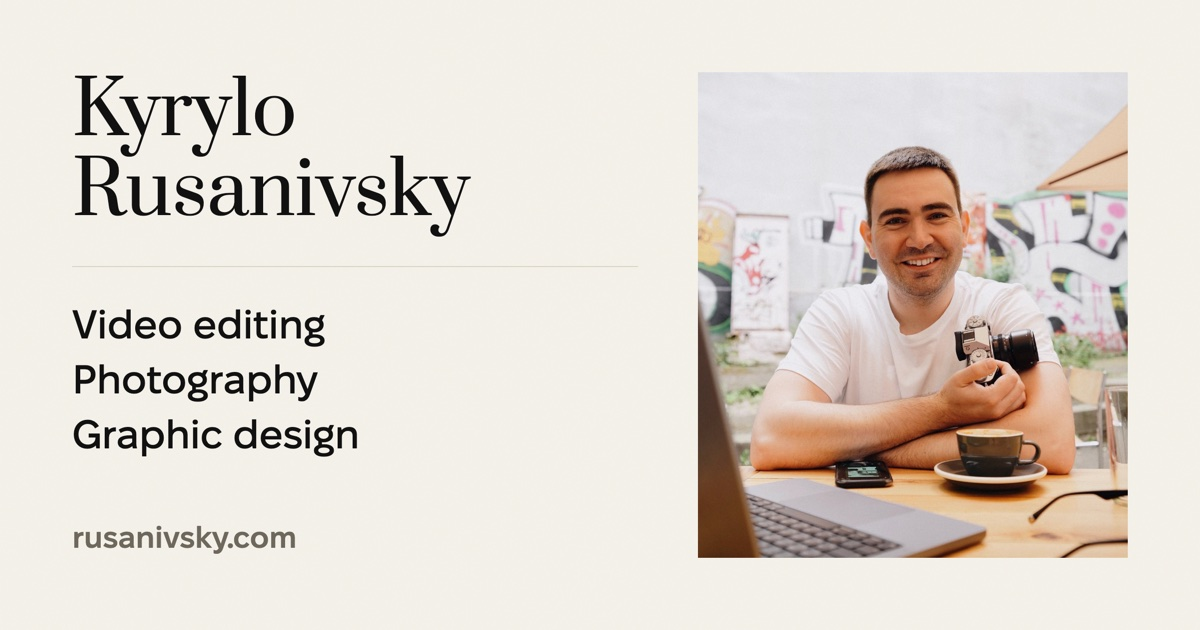
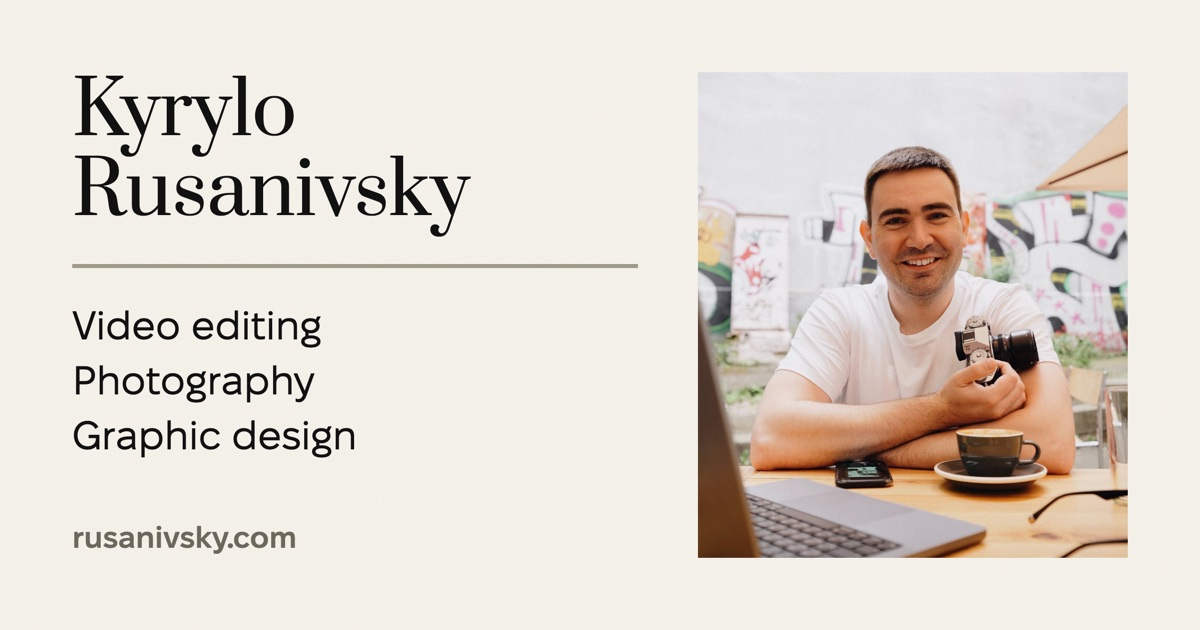
Головна зветься іменем і фахом, лінійка на картці видима
Заголовок головної починався з переліку ремесел. Тепер починається
з самоопису, а ремесла лишаються за рискою — Google тримає цей рядок
роками, і втрачати збіг за «video editor kyiv» через точніше слово
не варто. Описи сторінок не чіпані: ключові слова живуть там.

На картці лінійка була волосиною — у стрічці, де її бачать учетверо
меншою, від неї не лишалось нічого. Чотири пікселі --faint переживають
зменшення. Напрямки стоять звичайною вагою, як той самий перелік
у мобільній шторці: на 40 px зайва вага тільки товстила рядок.

Changed region(s): [[0.0617, 0.3921, 0.5242, 0.4524], [0.0617, 0.4825, 0.2775, 0.6333], [0.0617, 0.6635, 0.3083, 0.7238]]

diff --git a/ua/index.html b/ua/index.html
@@ -3,7 +3,7 @@
 <head>
 <meta charset="utf-8">
 <meta name="viewport" content="width=device-width, initial-scale=1, viewport-fit=cover">
-<title>Кирило Русанівський — відеомонтажер, фотограф і графічний дизайнер</title>
+<title>Кирило Русанівський — митець | Відео, фотографія, дизайн</title>
 <meta name="description" content="Кирило Русанівський — відеомонтажер, фотограф і графічний дизайнер із Києва. Монтаж відео, репортажна фотографія, дизайн книжок і обкладинок, верстка.">
 <meta name="author" content="Kyrylo Rusanivsky">
 <link rel="canonical" href="https://rusanivsky.com/ua/">
@@ -15,17 +15,17 @@
 <meta property="og:locale" content="uk_UA">
 <meta property="og:locale:alternate" content="en_US">
 <meta property="og:url" content="https://rusanivsky.com/ua/">
-<meta property="og:title" content="Кирило Русанівський — відеомонтажер, фотограф і графічний дизайнер">
+<meta property="og:title" content="Кирило Русанівський — митець | Відео, фотографія, дизайн">
 <meta property="og:description" content="Кирило Русанівський — відеомонтажер, фотограф і графічний дизайнер із Києва. Монтаж відео, репортажна фотографія, дизайн книжок і обкладинок, верстка.">
-<meta property="og:image" content="https://rusanivsky.com/og-image.jpg?v=aedbeb45">
+<meta property="og:image" content="https://rusanivsky.com/og-image.jpg?v=6ef668c4">
 <meta property="og:image:type" content="image/jpeg">
 <meta property="og:image:width" content="1200">
 <meta property="og:image:height" content="630">
 <meta property="og:image:alt" content="Кирило Русанівський — відеомонтажер, фотограф і графічний дизайнер, Київ">
 <meta name="twitter:card" content="summary_large_image">
-<meta name="twitter:title" content="Кирило Русанівський — відеомонтажер, фотограф і графічний дизайнер">
+<meta name="twitter:title" content="Кирило Русанівський — митець | Відео, фотографія, дизайн">
 <meta name="twitter:description" content="Кирило Русанівський — відеомонтажер, фотограф і графічний дизайнер із Києва. Монтаж відео, репортажна фотографія, дизайн книжок і обкладинок, верстка.">
-<meta name="twitter:image" content="https://rusanivsky.com/og-image.jpg?v=aedbeb45">
+<meta name="twitter:image" content="https://rusanivsky.com/og-image.jpg?v=6ef668c4">
 <meta name="theme-color" content="#f4f1e9">
 <link rel="icon" href="/favicon.ico?v=ccd57da2" sizes="32x32">
 <link rel="icon" href="/favicon.svg?v=ccd57da2" type="image/svg+xml">

diff --git a/index.html b/index.html
@@ -3,7 +3,7 @@
 <head>
 <meta charset="utf-8">
 <meta name="viewport" content="width=device-width, initial-scale=1, viewport-fit=cover">
-<title>Kyrylo Rusanivsky — Video Editor / Photographer / Graphic Designer</title>
+<title>Kyrylo Rusanivsky — Visual Artist | Video, Photography, Design</title>
 <meta name="description" content="Kyrylo Rusanivsky is a Kyiv-based video editor, photographer and graphic designer. Video editing, event photography, book and cover design, editorial layout.">
 <meta name="author" content="Kyrylo Rusanivsky">
 <link rel="canonical" href="https://rusanivsky.com/">
@@ -15,17 +15,17 @@
 <meta property="og:locale" content="en_US">
 <meta property="og:locale:alternate" content="uk_UA">
 <meta property="og:url" content="https://rusanivsky.com/">
-<meta property="og:title" content="Kyrylo Rusanivsky — Video Editor / Photographer / Graphic Designer">
+<meta property="og:title" content="Kyrylo Rusanivsky — Visual Artist | Video, Photography, Design">
 <meta property="og:description" content="Kyrylo Rusanivsky is a Kyiv-based video editor, photographer and graphic designer. Video editing, event photography, book and cover design, editorial layout.">
-<meta property="og:image" content="https://rusanivsky.com/og-image.jpg?v=aedbeb45">
+<meta property="og:image" content="https://rusanivsky.com/og-image.jpg?v=6ef668c4">
 <meta property="og:image:type" content="image/jpeg">
 <meta property="og:image:width" content="1200">
 <meta property="og:image:height" content="630">
 <meta property="og:image:alt" content="Kyrylo Rusanivsky — video editor, photographer and graphic designer, Kyiv">
 <meta name="twitter:card" content="summary_large_image">
-<meta name="twitter:title" content="Kyrylo Rusanivsky — Video Editor / Photographer / Graphic Designer">
+<meta name="twitter:title" content="Kyrylo Rusanivsky — Visual Artist | Video, Photography, Design">
 <meta name="twitter:description" content="Kyrylo Rusanivsky is a Kyiv-based video editor, photographer and graphic designer. Video editing, event photography, book and cover design, editorial layout.">
-<meta name="twitter:image" content="https://rusanivsky.com/og-image.jpg?v=aedbeb45">
+<meta name="twitter:image" content="https://rusanivsky.com/og-image.jpg?v=6ef668c4">
 <meta name="theme-color" content="#f4f1e9">
 <link rel="icon" href="/favicon.ico?v=ccd57da2" sizes="32x32">
 <link rel="icon" href="/favicon.svg?v=ccd57da2" type="image/svg+xml">

diff --git a/ua/info/index.html b/ua/info/index.html
@@ -17,7 +17,7 @@
 <meta property="og:url" content="https://rusanivsky.com/ua/info/">
 <meta property="og:title" content="Про мене — Кирило Русанівський">
 <meta property="og:description" content="Монтую відео. Проєктую й верстаю книжки. Знімаю людей і події. Працюю з інтерв’ю, YouTube-серіями й роликами для соцмереж; створюю видання та поліграфічну продукцію. Також веду серію вуличних світлин — про місто, випадкові сцени і краєвиди. Працюю дистанційно.">
-<meta property="og:image" content="https://rusanivsky.com/og-image.jpg?v=aedbeb45">
+<meta property="og:image" content="https://rusanivsky.com/og-image.jpg?v=6ef668c4">
 <meta property="og:image:type" content="image/jpeg">
 <meta property="og:image:width" content="1200">
 <meta property="og:image:height" content="630">
@@ -25,7 +25,7 @@
 <meta name="twitter:card" content="summary_large_image">
 <meta name="twitter:title" content="Про мене — Кирило Русанівський">
 <meta name="twitter:description" content="Монтую відео. Проєктую й верстаю книжки. Знімаю людей і події. Працюю з інтерв’ю, YouTube-серіями й роликами для соцмереж; створюю видання та поліграфічну продукцію. Також веду серію вуличних світлин — про місто, випадкові сцени і краєвиди. Працюю дистанційно.">
-<meta name="twitter:image" content="https://rusanivsky.com/og-image.jpg?v=aedbeb45">
+<meta name="twitter:image" content="https://rusanivsky.com/og-image.jpg?v=6ef668c4">
 <meta name="theme-color" content="#f4f1e9">
 <link rel="icon" href="/favicon.ico?v=ccd57da2" sizes="32x32">
 <link rel="icon" href="/favicon.svg?v=ccd57da2" type="image/svg+xml">

diff --git a/ua/street/index.html b/ua/street/index.html
@@ -17,7 +17,7 @@
 <meta property="og:url" content="https://rusanivsky.com/ua/street/">
 <meta property="og:title" content="Вулична фотографія — Кирило Русанівський">
 <meta property="og:description" content="Серія вуличних світлин — про місто, випадкові сцени і краєвиди. Це не замовна робота і вона ніколи не завершена: вона триває поряд з усім іншим.">
-<meta property="og:image" content="https://rusanivsky.com/og-image.jpg?v=aedbeb45">
+<meta property="og:image" content="https://rusanivsky.com/og-image.jpg?v=6ef668c4">
 <meta property="og:image:type" content="image/jpeg">
 <meta property="og:image:width" content="1200">
 <meta property="og:image:height" content="630">
@@ -25,7 +25,7 @@
 <meta name="twitter:card" content="summary_large_image">
 <meta name="twitter:title" content="Вулична фотографія — Кирило Русанівський">
 <meta name="twitter:description" content="Серія вуличних світлин — про місто, випадкові сцени і краєвиди. Це не замовна робота і вона ніколи не завершена: вона триває поряд з усім іншим.">
-<meta name="twitter:image" content="https://rusanivsky.com/og-image.jpg?v=aedbeb45">
+<meta name="twitter:image" content="https://rusanivsky.com/og-image.jpg?v=6ef668c4">
 <meta name="theme-color" content="#f4f1e9">
 <link rel="icon" href="/favicon.ico?v=ccd57da2" sizes="32x32">
 <link rel="icon" href="/favicon.svg?v=ccd57da2" type="image/svg+xml">

diff --git a/ua/design/index.html b/ua/design/index.html
@@ -17,7 +17,7 @@
 <meta property="og:url" content="https://rusanivsky.com/ua/design/">
 <meta property="og:title" content="Дизайн — Кирило Русанівський">
 <meta property="og:description" content="Дизайнер книжкових обкладинок у Києві. Обкладинки, редакційна типографіка, верстка книжок і поліграфія для видавців, авторів і культурних проєктів.">
-<meta property="og:image" content="https://rusanivsky.com/og-image.jpg?v=aedbeb45">
+<meta property="og:image" content="https://rusanivsky.com/og-image.jpg?v=6ef668c4">
 <meta property="og:image:type" content="image/jpeg">
 <meta property="og:image:width" content="1200">
 <meta property="og:image:height" content="630">
@@ -25,7 +25,7 @@
 <meta name="twitter:card" content="summary_large_image">
 <meta name="twitter:title" content="Дизайн — Кирило Русанівський">
 <meta name="twitter:description" content="Дизайнер книжкових обкладинок у Києві. Обкладинки, редакційна типографіка, верстка книжок і поліграфія для видавців, авторів і культурних проєктів.">
-<meta name="twitter:image" content="https://rusanivsky.com/og-image.jpg?v=aedbeb45">
+<meta name="twitter:image" content="https://rusanivsky.com/og-image.jpg?v=6ef668c4">
 <meta name="theme-color" content="#f4f1e9">
 <link rel="icon" href="/favicon.ico?v=ccd57da2" sizes="32x32">
 <link rel="icon" href="/favicon.svg?v=ccd57da2" type="image/svg+xml">

diff --git a/info/index.html b/info/index.html
@@ -17,7 +17,7 @@
 <meta property="og:url" content="https://rusanivsky.com/info/">
 <meta property="og:title" content="About me — Kyrylo Rusanivsky">
 <meta property="og:description" content="I edit videos. I design and typeset books. I photograph people and events. I work on interviews, YouTube series and social-media videos; I create publications and printed materials. I also keep a street-photography series about the city, spontaneous scenes and landscapes. I work remotely.">
-<meta property="og:image" content="https://rusanivsky.com/og-image.jpg?v=aedbeb45">
+<meta property="og:image" content="https://rusanivsky.com/og-image.jpg?v=6ef668c4">
 <meta property="og:image:type" content="image/jpeg">
 <meta property="og:image:width" content="1200">
 <meta property="og:image:height" content="630">
@@ -25,7 +25,7 @@
 <meta name="twitter:card" content="summary_large_image">
 <meta name="twitter:title" content="About me — Kyrylo Rusanivsky">
 <meta name="twitter:description" content="I edit videos. I design and typeset books. I photograph people and events. I work on interviews, YouTube series and social-media videos; I create publications and printed materials. I also keep a street-photography series about the city, spontaneous scenes and landscapes. I work remotely.">
-<meta name="twitter:image" content="https://rusanivsky.com/og-image.jpg?v=aedbeb45">
+<meta name="twitter:image" content="https://rusanivsky.com/og-image.jpg?v=6ef668c4">
 <meta name="theme-color" content="#f4f1e9">
 <link rel="icon" href="/favicon.ico?v=ccd57da2" sizes="32x32">
 <link rel="icon" href="/favicon.svg?v=ccd57da2" type="image/svg+xml">

diff --git a/ua/photo/index.html b/ua/photo/index.html
@@ -17,7 +17,7 @@
 <meta property="og:url" content="https://rusanivsky.com/ua/photo/">
 <meta property="og:title" content="Фотографія — Кирило Русанівський">
 <meta property="og:description" content="Репортаж, культура й мистецтво, бекстейдж і портрети — замовна робота, зібрана в серії, а не викладена всіма кадрами поспіль.">
-<meta property="og:image" content="https://rusanivsky.com/og-image.jpg?v=aedbeb45">
+<meta property="og:image" content="https://rusanivsky.com/og-image.jpg?v=6ef668c4">
 <meta property="og:image:type" content="image/jpeg">
 <meta property="og:image:width" content="1200">
 <meta property="og:image:height" content="630">
@@ -25,7 +25,7 @@
 <meta name="twitter:card" content="summary_large_image">
 <meta name="twitter:title" content="Фотографія — Кирило Русанівський">
 <meta name="twitter:description" content="Репортаж, культура й мистецтво, бекстейдж і портрети — замовна робота, зібрана в серії, а не викладена всіма кадрами поспіль.">
-<meta name="twitter:image" content="https://rusanivsky.com/og-image.jpg?v=aedbeb45">
+<meta name="twitter:image" content="https://rusanivsky.com/og-image.jpg?v=6ef668c4">
 <meta name="theme-color" content="#f4f1e9">
 <link rel="icon" href="/favicon.ico?v=ccd57da2" sizes="32x32">
 <link rel="icon" href="/favicon.svg?v=ccd57da2" type="image/svg+xml">

diff --git a/ua/rates/index.html b/ua/rates/index.html
@@ -17,7 +17,7 @@
 <meta property="og:url" content="https://rusanivsky.com/ua/rates/">
 <meta property="og:title" content="Умови співпраці — Кирило Русанівський">
 <meta property="og:description" content="Умови роботи та контакти Кирила Русанівського — відеомонтажера, фотографа і графічного дизайнера з Києва.">
-<meta property="og:image" content="https://rusanivsky.com/og-image.jpg?v=aedbeb45">
+<meta property="og:image" content="https://rusanivsky.com/og-image.jpg?v=6ef668c4">
 <meta property="og:image:type" content="image/jpeg">
 <meta property="og:image:width" content="1200">
 <meta property="og:image:height" content="630">
@@ -25,7 +25,7 @@
 <meta name="twitter:card" content="summary_large_image">
 <meta name="twitter:title" content="Умови співпраці — Кирило Русанівський">
 <meta name="twitter:description" content="Умови роботи та контакти Кирила Русанівського — відеомонтажера, фотографа і графічного дизайнера з Києва.">
-<meta name="twitter:image" content="https://rusanivsky.com/og-image.jpg?v=aedbeb45">
+<meta name="twitter:image" content="https://rusanivsky.com/og-image.jpg?v=6ef668c4">
 <meta name="theme-color" content="#f4f1e9">
 <link rel="icon" href="/favicon.ico?v=ccd57da2" sizes="32x32">
 <link rel="icon" href="/favicon.svg?v=ccd57da2" type="image/svg+xml">

diff --git a/ua/privacy/index.html b/ua/privacy/index.html
@@ -17,7 +17,7 @@
 <meta property="og:url" content="https://rusanivsky.com/ua/privacy/">
 <meta property="og:title" content="Приватність — Кирило Русанівський">
 <meta property="og:description" content="Коротка інформація про приватність і використання Google Analytics на сайті Кирила Русанівського.">
-<meta property="og:image" content="https://rusanivsky.com/og-image.jpg?v=aedbeb45">
+<meta property="og:image" content="https://rusanivsky.com/og-image.jpg?v=6ef668c4">
 <meta property="og:image:type" content="image/jpeg">
 <meta property="og:image:width" content="1200">
 <meta property="og:image:height" content="630">
@@ -25,7 +25,7 @@
 <meta name="twitter:card" content="summary_large_image">
 <meta name="twitter:title" content="Приватність — Кирило Русанівський">
 <meta name="twitter:description" content="Коротка інформація про приватність і використання Google Analytics на сайті Кирила Русанівського.">
-<meta name="twitter:image" content="https://rusanivsky.com/og-image.jpg?v=aedbeb45">
+<meta name="twitter:image" content="https://rusanivsky.com/og-image.jpg?v=6ef668c4">
 <meta name="theme-color" content="#f4f1e9">
 <link rel="icon" href="/favicon.ico?v=ccd57da2" sizes="32x32">
 <link rel="icon" href="/favicon.svg?v=ccd57da2" type="image/svg+xml">

diff --git a/ua/video/index.html b/ua/video/index.html
@@ -17,7 +17,7 @@
 <meta property="og:url" content="https://rusanivsky.com/ua/video/">
 <meta property="og:title" content="Відео — Кирило Русанівський">
 <meta property="og:description" content="Камера, монтаж і колір: документалістика, інтерв’ю та YouTube-серії, брендові фільми й короткий метр.">
-<meta property="og:image" content="https://rusanivsky.com/og-image.jpg?v=aedbeb45">
+<meta property="og:image" content="https://rusanivsky.com/og-image.jpg?v=6ef668c4">
 <meta property="og:image:type" content="image/jpeg">
 <meta property="og:image:width" content="1200">
 <meta property="og:image:height" content="630">
@@ -25,7 +25,7 @@
 <meta name="twitter:card" content="summary_large_image">
 <meta name="twitter:title" content="Відео — Кирило Русанівський">
 <meta name="twitter:description" content="Камера, монтаж і колір: документалістика, інтерв’ю та YouTube-серії, брендові фільми й короткий метр.">
-<meta name="twitter:image" content="https://rusanivsky.com/og-image.jpg?v=aedbeb45">
+<meta name="twitter:image" content="https://rusanivsky.com/og-image.jpg?v=6ef668c4">
 <meta name="theme-color" content="#f4f1e9">
 <link rel="icon" href="/favicon.ico?v=ccd57da2" sizes="32x32">
 <link rel="icon" href="/favicon.svg?v=ccd57da2" type="image/svg+xml">

diff --git a/street/index.html b/street/index.html
@@ -17,7 +17,7 @@
 <meta property="og:url" content="https://rusanivsky.com/street/">
 <meta property="og:title" content="Street photography — Kyrylo Rusanivsky">
 <meta property="og:description" content="A street-photography series about the city, spontaneous scenes and landscapes. It is not commissioned work and it is never finished — it runs alongside everything else.">
-<meta property="og:image" content="https://rusanivsky.com/og-image.jpg?v=aedbeb45">
+<meta property="og:image" content="https://rusanivsky.com/og-image.jpg?v=6ef668c4">
 <meta property="og:image:type" content="image/jpeg">
 <meta property="og:image:width" content="1200">
 <meta property="og:image:height" content="630">
@@ -25,7 +25,7 @@
 <meta name="twitter:card" content="summary_large_image">
 <meta name="twitter:title" content="Street photography — Kyrylo Rusanivsky">
 <meta name="twitter:description" content="A street-photography series about the city, spontaneous scenes and landscapes. It is not commissioned work and it is never finished — it runs alongside everything else.">
-<meta name="twitter:image" content="https://rusanivsky.com/og-image.jpg?v=aedbeb45">
+<meta name="twitter:image" content="https://rusanivsky.com/og-image.jpg?v=6ef668c4">
 <meta name="theme-color" content="#f4f1e9">
 <link rel="icon" href="/favicon.ico?v=ccd57da2" sizes="32x32">
 <link rel="icon" href="/favicon.svg?v=ccd57da2" type="image/svg+xml">

diff --git a/rates/index.html b/rates/index.html
@@ -17,7 +17,7 @@
 <meta property="og:url" content="https://rusanivsky.com/rates/">
 <meta property="og:title" content="Rates &amp; Terms — Kyrylo Rusanivsky">
 <meta property="og:description" content="Work terms, prices and payment for Kyrylo Rusanivsky — video editor, photographer and graphic designer in Kyiv. Rates, timelines, revisions and paperwork.">
-<meta property="og:image" content="https://rusanivsky.com/og-image.jpg?v=aedbeb45">
+<meta property="og:image" content="https://rusanivsky.com/og-image.jpg?v=6ef668c4">
 <meta property="og:image:type" content="image/jpeg">
 <meta property="og:image:width" content="1200">
 <meta property="og:image:height" content="630">
@@ -25,7 +25,7 @@
 <meta name="twitter:card" content="summary_large_image">
 <meta name="twitter:title" content="Rates &amp; Terms — Kyrylo Rusanivsky">
 <meta name="twitter:description" content="Work terms, prices and payment for Kyrylo Rusanivsky — video editor, photographer and graphic designer in Kyiv. Rates, timelines, revisions and paperwork.">
-<meta name="twitter:image" content="https://rusanivsky.com/og-image.jpg?v=aedbeb45">
+<meta name="twitter:image" content="https://rusanivsky.com/og-image.jpg?v=6ef668c4">
 <meta name="theme-color" content="#f4f1e9">
 <link rel="icon" href="/favicon.ico?v=ccd57da2" sizes="32x32">
 <link rel="icon" href="/favicon.svg?v=ccd57da2" type="image/svg+xml">
